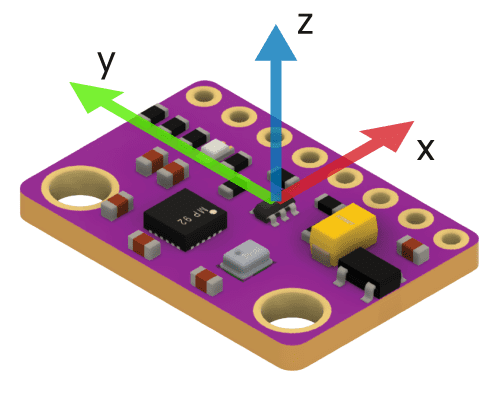
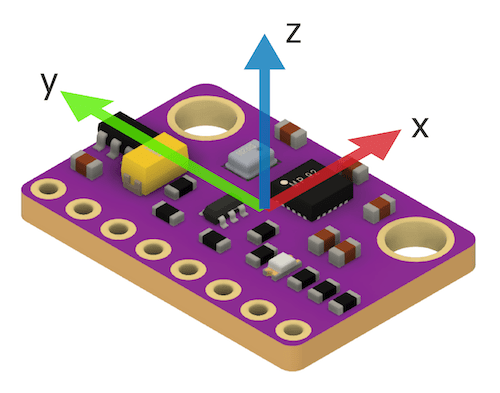
Fix imu rotation definition The X axis should be pointing to the mounting holes, not pins side.

diff --git a/docs/usage.md b/docs/usage.md
@@ -114,7 +114,7 @@ You can also work with parameters using `p` command in the console. Parameter na
 
 The IMU orientation (relative to the drone's axes) is defined using the parameters: `IMU_ROT_ROLL`, `IMU_ROT_PITCH`, and `IMU_ROT_YAW`.
 
-The drone has *X* axis pointing forward, *Y* axis pointing left, and *Z* axis pointing up, and the supported IMU boards have *X* axis pointing to the pins side and *Z* axis pointing up from the component side:
+The drone has *X* axis pointing forward, *Y* axis pointing left, and *Z* axis pointing up, and the supported IMU boards have *X* axis pointing to the mounting holes side and *Z* axis pointing up from the component side:
 
 <img src="img/imu-axes.png" width="200">
 
@@ -122,10 +122,10 @@ Use the following table to set the parameters for common IMU orientations:
 
 |Orientation|Parameters|Orientation|Parameters|
 |:-:|-|-|-|
-|<img src="img/imu-rot-1.png" width="180">|`IMU_ROT_ROLL` = 0<br>`IMU_ROT_PITCH` = 0<br>`IMU_ROT_YAW` = 0    |<img src="img/imu-rot-5.png" width="180">|`IMU_ROT_ROLL` = 3.142<br>`IMU_ROT_PITCH` = 0<br>`IMU_ROT_YAW` = 0|
-|<img src="img/imu-rot-2.png" width="180">|`IMU_ROT_ROLL` = 0<br>`IMU_ROT_PITCH` = 0<br>`IMU_ROT_YAW` = 1.571|<img src="img/imu-rot-6.png" width="180">|`IMU_ROT_ROLL` = 3.142<br>`IMU_ROT_PITCH` = 0<br>`IMU_ROT_YAW` = -1.571|
-|<img src="img/imu-rot-3.png" width="180">|`IMU_ROT_ROLL` = 0<br>`IMU_ROT_PITCH` = 0<br>`IMU_ROT_YAW` = 3.142|<img src="img/imu-rot-7.png" width="180">|`IMU_ROT_ROLL` = 3.142<br>`IMU_ROT_PITCH` = 0<br>`IMU_ROT_YAW` = 3.142|
-|<img src="img/imu-rot-4.png" width="180"><br>☑ **Default**|<br>`IMU_ROT_ROLL` = 0<br>`IMU_ROT_PITCH` = 0<br>`IMU_ROT_YAW` = -1.571|<img src="img/imu-rot-8.png" width="180">|`IMU_ROT_ROLL` = 3.142<br>`IMU_ROT_PITCH` = 0<br>`IMU_ROT_YAW` = 1.571|
+|<img src="img/imu-rot-3.png" width="180">|`IMU_ROT_ROLL` = 0<br>`IMU_ROT_PITCH` = 0<br>`IMU_ROT_YAW` = 0    |<img src="img/imu-rot-7.png" width="180">|`IMU_ROT_ROLL` = 3.142<br>`IMU_ROT_PITCH` = 0<br>`IMU_ROT_YAW` = 0|
+|<img src="img/imu-rot-2.png" width="180">|`IMU_ROT_ROLL` = 0<br>`IMU_ROT_PITCH` = 0<br>`IMU_ROT_YAW` = -1.571|<img src="img/imu-rot-6.png" width="180">|`IMU_ROT_ROLL` = 3.142<br>`IMU_ROT_PITCH` = 0<br>`IMU_ROT_YAW` = -1.571|
+|<img src="img/imu-rot-1.png" width="180">|`IMU_ROT_ROLL` = 0<br>`IMU_ROT_PITCH` = 0<br>`IMU_ROT_YAW` = 3.142|<img src="img/imu-rot-5.png" width="180">|`IMU_ROT_ROLL` = 3.142<br>`IMU_ROT_PITCH` = 0<br>`IMU_ROT_YAW` = 3.142|
+|<img src="img/imu-rot-4.png" width="180"><br>☑ **Default**|<br>`IMU_ROT_ROLL` = 0<br>`IMU_ROT_PITCH` = 0<br>`IMU_ROT_YAW` = 1.571|<img src="img/imu-rot-8.png" width="180">|`IMU_ROT_ROLL` = 3.142<br>`IMU_ROT_PITCH` = 0<br>`IMU_ROT_YAW` = 1.571|
 
 ### Calibrate accelerometer
 
